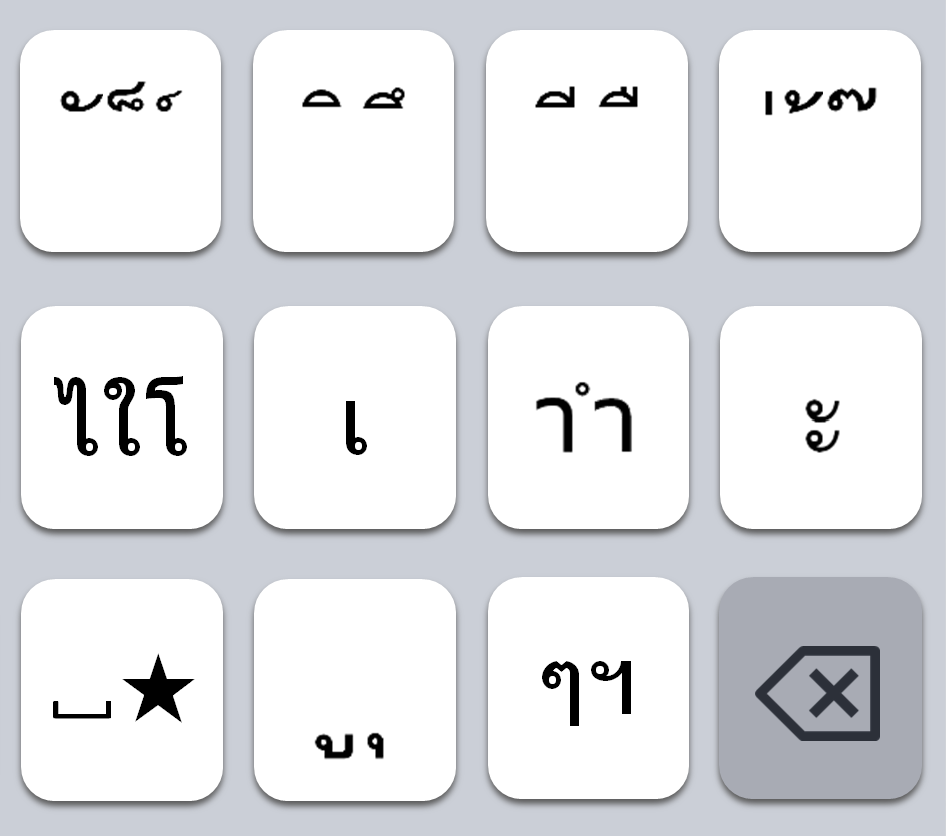
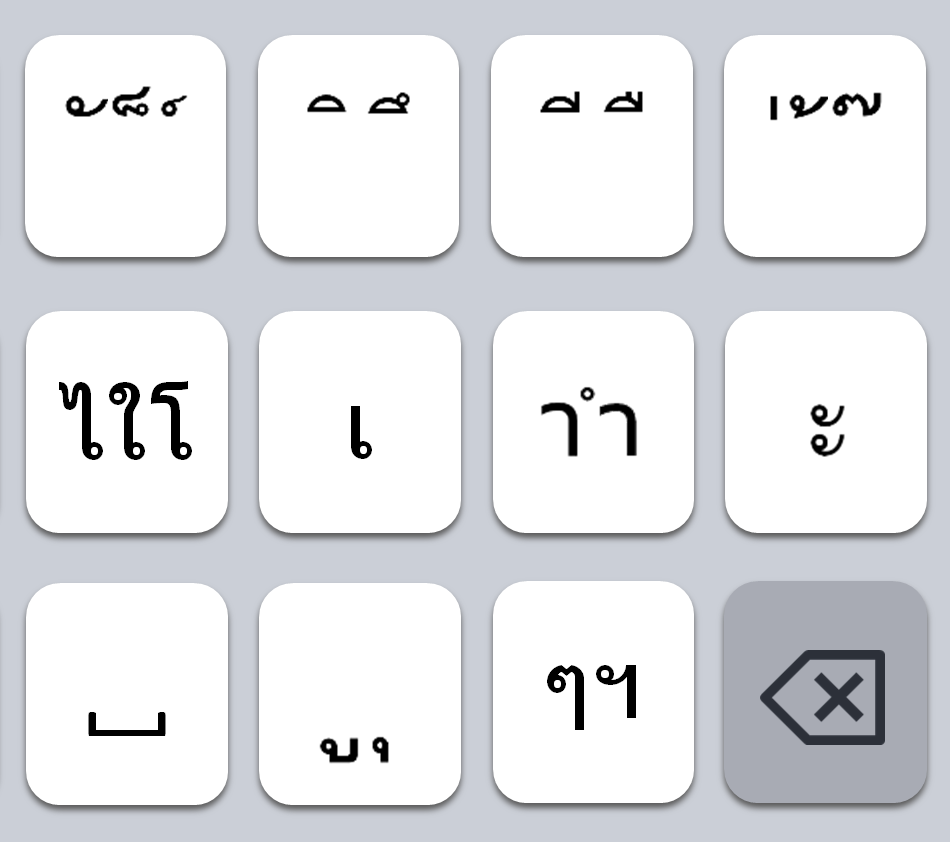
Add files via upload

diff --git a/mobile_demo.html b/mobile_demo.html
@@ -65,9 +65,9 @@
 
 <script>
 const consonantGroups = {
-  'ค': ['ค','ศ','ฅ'], 'ด': ['ด','ต','ฒ'], 'ว': ['ว','จ','ฐ','ฉ'], 'ก': ['ก','ถ','ฤ'], 'ภ': ['ภ','ฎ','ฏ'],
-  'ล': ['ล','ส'], 'ย': ['ย','ข','ช','ซ','ฃ'], 'น': ['น','บ','ป','ษ'], 'ห': ['ห','ท','ฑ'], 'พ': ['พ','ผ','ฟ','ฝ','ฬ'],
-  'ม': ['ม','ฆ'], 'ง': ['ง'], 'อ': ['อ','ฮ'], 'ร': ['ร','ธ'], 'ญ': ['ญ','ณ','ฌ']
+  'ค': ['ค','ศ','ฅ'], 'ร': ['ร','ธ'], 'ว': ['ว','จ','ฐ','ฉ'], 'ก': ['ก','ถ','ฤ'], 'ภ': ['ภ','ฎ','ฏ'],
+  'ม': ['ม','ฆ'], 'ห': ['ห','ท','ฑ'], 'น': ['น','บ','ป','ษ'], 'ง': ['ง', 'ย'], 'พ': ['พ','ผ','ฟ','ฝ','ฬ'],
+  'ข': ['ข','ช','ซ','ฃ'], 'ล': ['ล','ส'], 'อ': ['อ','ฮ'], 'ด': ['ด','ต','ฒ'],  'ญ': ['ญ','ณ','ฌ']
 };
 
 const COLS = [1.0, 12.1, 23.2, 34.3, 45.4, 56.5, 67.6, 78.7, 89.8]; 
@@ -125,9 +125,9 @@ function renderKeys() {
   overlay.innerHTML = '';
   
   const layout = [
-    ['ค','ด','ว','ก','ภ', ['ั','็','์'], ['ิ','ึ'], ['ี','ื'], ['่','้','๊']],
-    ['ล','ย','น','ห','พ', ['ไ','ใ','โ'], ['เ','แ'], ['า','ำ'], 'ะ'],
-    ['ม','ง','อ','ร','ญ', 'SPACE_STAR', ['ู','ุ'], ['ๆ','ฯ'], 'BS']
+    ['ค','ร','ว','ก','ภ', ['ั','็','์'], ['ิ','ึ'], ['ี','ื'], ['่','้','๊']],
+	['ม','ห','น','ง','พ', ['ไ','ใ','โ'], ['เ','แ'], ['า','ำ'], 'ะ'],
+	['ข','ล','อ','ด','ญ', 'SPACE_STAR', ['ู','ุ'], ['ๆ','ฯ'], 'BS']
   ];
 
   layout.forEach((row, rIdx) => {
